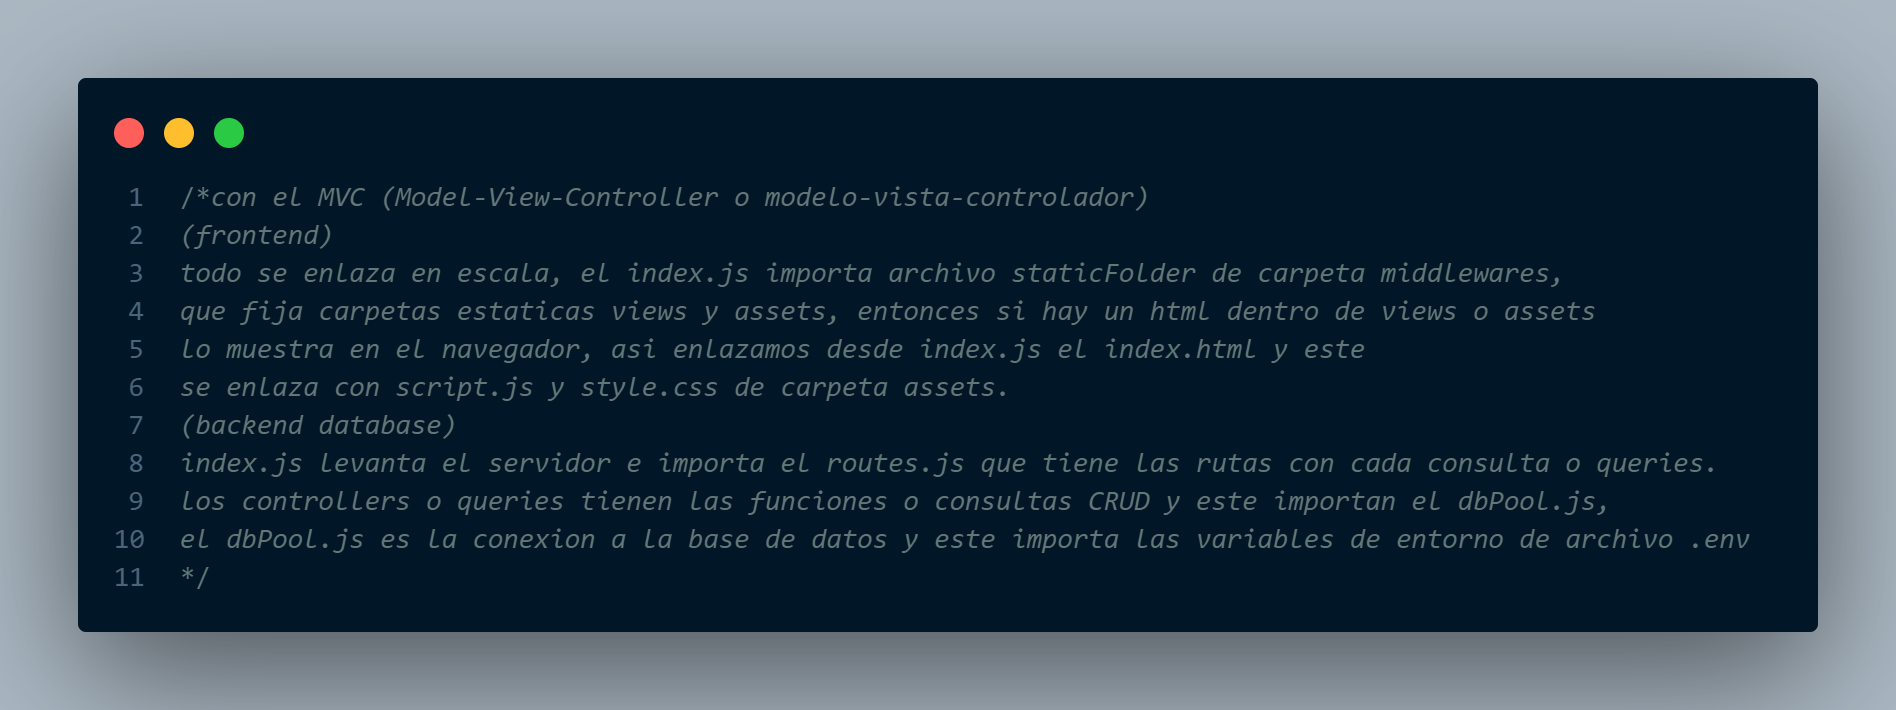
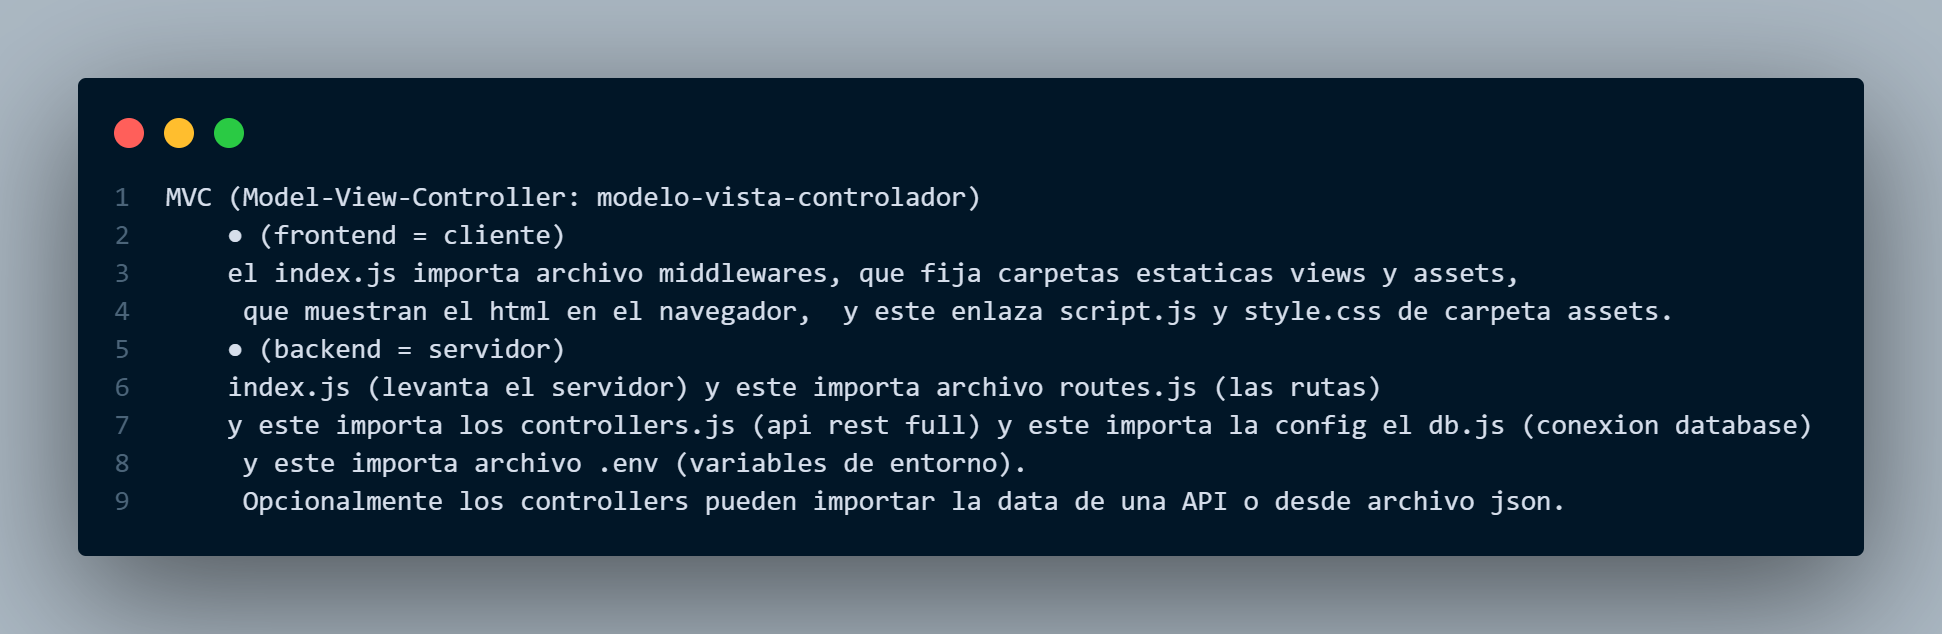
:tada: update

diff --git a/comandos-terminal-git-github-github-pages-pull-request.md b/comandos-terminal-git-github-github-pages-pull-request.md
@@ -43,7 +43,7 @@ q + enter: cuando ves END y no te deja escribir, ahora te dejara escribir
 - git branch -M main : cambio nombre de rama de master a main
 - git push -u origin main : subes archivos y pone contraseña
 - Ejemplo:
-remote git add origin https://github.com/jviera100/desafio-ricomida.git
+git remote add origin https://github.com/jviera100/desafio-ricomida.git
 git branch -M main
 git push -u main origin
 # TERMINAL GIT sube a GITHUB cambios de trabajo
@@ -55,15 +55,17 @@ git push -u main origin
 - git remote add origin https://github.com/jviera100/desafio-ricomida.git
 # TERMINAL GIT si la rama main no esta asociada de forma remota, la asocias
 - git push --set-upstream origin main
-# TERMINAL GIT forzar subir y reemplazar cambios locales por los remotos
+# TERMINAL GIT PUSH -F (no usar) forzar subir y reemplazar cambios locales por los remotos
 - git push --force origin main
-# TERMINAL GIT branch, rama o version del mismo proyecto o carpeta(no duplica la carpeta, es la misma con otra version)
-- git log : muestra todas las versiones
+- git push -f origin main : 
+No se recomienda utilizar este comando, ya que puede causar la pérdida de datos y la corrupción del historial de versiones, hay formas arreglar eso sin forzarlo pero hay que utilizar algo que se llama rebase
+# TERMINAL GIT branch o rama del mismo proyecto o carpeta(no duplica la carpeta, es la misma con otra version)
+- git log : muestra todas las versiones👨🏽💻
 - git branch : muestra en la rama que estas y las demas ramas
 - git branch -M main : cambio nombre de rama de master a main
 - git branch nombre-nueva-rama : crea nueva rama
 - git checkout nombre-otra-rama : te cambia a otra rama
-- git checkout -b otra_branch : crea nueva rama y te ubica en esa rama nueva
+- git checkout -b otra_branch : crea nueva rama y te ubica en esa rama nueva👨🏽💻
 - git stash : aparta modificaciones de rama actual para no perder cambios
 - git stash list : lista de cambios apartados en paralelo a historial de commits (historial modificaciones github)
 - git stash apply : unir directorio actual con cambios apartados
@@ -75,22 +77,19 @@ git push -u main origin
 - archivo (letra A): es cuando le das git add .
 - archivo (letra M) : cuando se modifica, debes poner git add . y luego git commit -m "nombre"
 - archivo (sin letra) : es cuando no hiciste git init o si lo iniciaste esta guardado, las letras significa que falta guardar
-# TERMINAL crea github pages
-git branch gh-pages
-# TERMINAL bajar trabajo
+# TERMINAL GIT PULL bajar trabajo
 - git pull -u origin main : bajas archivos
-# TERMINA git merge fusionar cambios
-- git merge : le pones el nombre de la otra rama ejemplo development y la fusiona a la otra rama ejemplo main dejandole los mismos cambios
-# TERMINAL GIT fetch recupera github y actualiza terminal
+- # TERMINAL GIT fetch recupera github y actualiza terminal
 - git fetch se utiliza para recuperar los cambios del repositorio remoto y actualizar el repositorio local sin fusionar los cambios.
-# TERMINAL GIT no usar
-- git push -f origin main : No se recomienda utilizar este comando, ya que puede causar la pérdida de datos y la corrupción del historial de versiones, hay formas arreglar eso sin forzarlo pero hay que utilizar algo que se llama rebase
+# TERMINA git merge fusionar cambios (GIT PULL = GIT FETCH + GIT MERGE)👨🏽💻
+- git merge : le pones el nombre de la otra rama ejemplo development y la fusiona a la otra rama ejemplo main dejandole los mismos cambios
+# ----------------------------------------------------------------
 # TERMINAL GIT muestra informacion repositorio
 - git remote show [nombre]
 # github cambiar de repositorio al señalado
 git remote set-url origin https://github.com/jviera100/desafio_evaluado_24_citas_medicas.git
 # TERMINAL GIT cambia nombre repositorio
-- git remote rename nombreActual NuevoNombre
+- git remote rename nombreActual NuevoNombre👨🏽💻
 # TERMINAL GIT elimina repositorio
 - git remote rm NombreRepositorio
 # crear repositorios en GITHUB
@@ -109,7 +108,7 @@ git remote set-url origin https://github.com/jviera100/desafio_evaluado_24_citas
 - main
 - save
 - deployments: ver pagina web subida
-# clonar o copiar repositorio en GITHUB - dentro del repositorio remoto de ambos
+# clonar o copiar repositorio en GITHUB de otro
 - abrir ruta del  compañero en el navegador
 - fork: copia repositorio desde git hub de compañero
 - creo el repositorio en mi git hub
@@ -129,6 +128,40 @@ en resumen guardo cambios en mi repo local independiente de aprobacion dueño re
 - create pull request
 - agrega titulo y descripcion
 - create pull request
+# TERMINAL crea github pages
+git branch gh-pages
+# //----------------------------------------------------------------
+# COMPARAR VERSION ANTIGUA EN RAMA NUEVA CON VERSION NUEVA EN RAMA ANTIGUA
+# Crea una nueva rama llamada 'old' y entra en ella
+git checkout -b old
+# entra a la rama 'main' 
+git checkout main
+# Muestra los commits en la rama 'main' para encontrar el hash del commit antiguo
+git log
+# Cambia de nuevo a la rama 'old'
+git checkout old
+# Trae el commit antiguo a la rama 'old'
+git cherry-pick <hash_del_commit_antiguo>
+# Continúa el proceso de cherry-pick si hay conflictos
+git cherry-pick --continue
+# compara versiones de ramas
+git diff main..old
+# //----------------------------------------------------------------
+# SUBIR NUEVA RAMA CON VERSION ANTIGUA A GITHUB, DESCARGA EN PC Y COMPARA VISUALMENTE
+git checkout -b old
+git add .
+git commit -m "Mensaje del commit"
+git push -u origin old
+# //----------------------------------------------------------------
+# CAMBIAR DIRECTORIO Y NOMBRE REPO EN GITHUB Y EN TERMINAL
+mv nombre_antiguo nombre_nuevo => cambia nombre carpeta proyecto con comando o desde la carpeta renombrando
+vas github y renombras la repo
+git remote set-url jviera100 https://github.com/jviera100/jviera100.git => con este comando se actualiza repo en terminal
+
+
+
+
+
 
 
 

diff --git a/comandos-node-npm-express-json.md b/comandos-node-npm-express-json.md
@@ -915,14 +915,35 @@ ejemplo:
   }
 }
 # MVC
-/*con el MVC (Model-View-Controller o modelo-vista-controlador)
-    (frontend)
-    todo se enlaza en escala, el index.js importa archivo staticFolder de carpeta middlewares,
-    que fija carpetas estaticas views y assets, entonces si hay un html dentro de views o assets 
-    lo muestra en el navegador, asi enlazamos desde index.js el index.html y este
-    se enlaza con script.js y style.css de carpeta assets.
-    (backend database)
-    index.js levanta el servidor e importa el routes.js que tiene las rutas con cada consulta o queries.
-    los controllers o queries tienen las funciones o consultas CRUD y este importan el dbPool.js,
-    el dbPool.js es la conexion a la base de datos y este importa las variables de entorno de archivo .env 
+/*● MVC (Model-View-Controller: modelo-vista-controlador)
+    ● (frontend = cliente)     
+    el index.js importa archivo middlewares, que fija carpetas estaticas views y assets,
+     que muestran el html en el navegador,  y este enlaza script.js y style.css de carpeta assets.
+    ● (backend = servidor)
+    index.js (levanta el servidor) y este importa archivo routes.js (las rutas) 
+    y este importa los controllers.js (api rest full) y este importa la config el db.js (conexion database)
+     y este importa archivo .env (variables de entorno). 
+     Opcionalmente los controllers pueden importar la data de una API o desde archivo json.
     */
+
+
+
+---------------------------------------------
+?? que es esto
+    
+const { emisor, receptor, monto } = datos
+    const { id: emisorId } = (
+      await pool.query(`SELECT * FROM usuarios WHERE nombre = '${emisor}'`)
+    ).rows[0];
+    //buscamos el id del receptor
+    const { id: receptorId } = (
+      await pool.query(`SELECT * FROM usuarios WHERE nombre = '${receptor}'`)
+    ).rows[0];
+-----------------------------------------------------
+body = post = backend
+query = get = lleva signo ? = porque filtra
+params = url
+------------------------------------------------
+entonces rowMode muestra un objeto como array?
+petstore.swagger.io para documentar api🤔
+HATEOAS🧐🤔🤯🧑🏫 permite paginar la data, mostrar tantos datos por pagina

diff --git a/comandos-token.md b/comandos-token.md
@@ -1,0 +1,35 @@
+# generas nuevo token actualizando pagina
+
+# estructura token:
+
+color rojo = header no se modifica
+data = color morado
+secret key = color celeste
+
+# funcion metodo sign o verify(trae data y variables de entornos)
+
+logica funcion envia por ruta token y secret key y obtiene data(en que parte de la funcio?)
+
+# Uso de req.params, req.body y req.query en las operaciones CRUD con solicitudes HTTP.
+
+● req.params: Se utiliza en las operaciones Read (GET), Update (PUT) y Delete (DELETE) para capturar los parámetros de la ruta en la URL, generalmente un ID para buscar en la base de datos, API o en un archivo JSON.
+  --ejemplo:
+         //--Read (GET): Para obtener una tarea específica por su ID.//
+                app.get('/tasks/:taskId', function(req, res) {
+                    let taskId = req.params.taskId;
+                    // Buscar la tarea en la base de datos y devolverla
+                });
+● req.body: Se utiliza en las operaciones Create (POST) y Update (PUT) para acceder a los datos enviados en el cuerpo de la solicitud HTTP, generalmente para agregar o actualizar datos en la base de datos, API o en un archivo JSON.
+  --ejemplo:
+          //--Create (POST): Para crear una nueva tarea.//
+                app.post('/tasks', function(req, res) {
+                    let newTask = req.body;
+                    // Agregar la nueva tarea a la base de datos
+                    });
+● req.query: Se utiliza en la operación Read (GET) para leer los parámetros de consulta en la URL, generalmente para filtrar resultados en una base de datos, API o en un archivo JSON.
+  --ejemplo:
+          //--Read (GET): Para obtener tareas que coincidan con un estado específico (por ejemplo, completadas).
+                app.get('/tasks', function(req, res) {
+                    let status = req.query.status;
+                    // Buscar las tareas que coincidan con el estado en la base de datos y devolverlas
+                });
